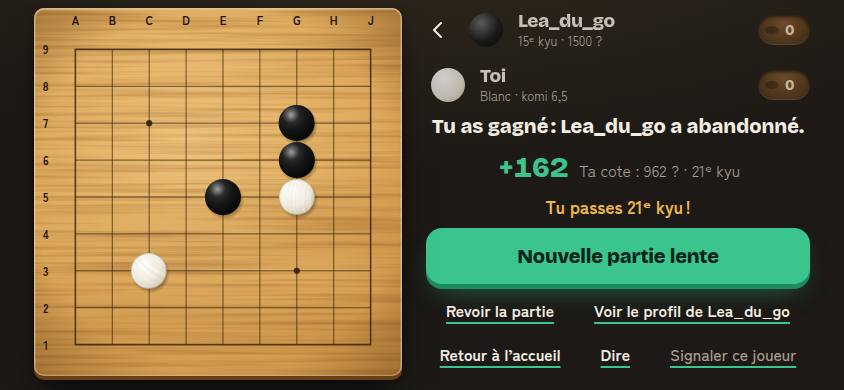
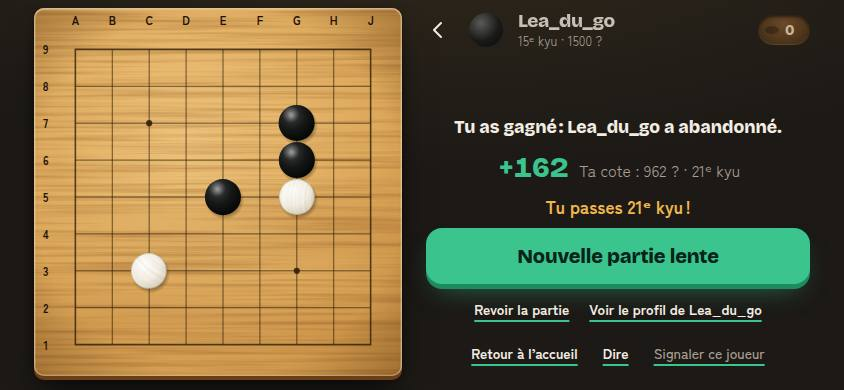
#670 Fin en ligne sur téléphone tourné : le panneau tient, même avec une police plus large
En CI, la fin d'une partie classée défilait de 19 px à 844 × 390 (police plus large sur le runner : titre sur deux
lignes, liens un par ligne). Sous 480 px de haut, à la fin : ton bandeau (couleur, komi, prisonniers) s'efface, le
titre passe à --fs-l, les liens à --fs-s avec moins d'écart (44 px de haut gardés). Mesuré : le panneau finit au bas
du goban avec environ 60 px libres, polices web chargées ou bloquées. Capture 844 × 390 refaite.

Claude-Session: https://claude.ai/code/session_01MBh4E5pGWe9HRzjpTV2rVx

diff --git a/src/ui/paysage-en-ligne.css b/src/ui/paysage-en-ligne.css
@@ -47,5 +47,11 @@
   /* Téléphone tourné : à la fin, le ruban des coups laisse sa place au résultat (« Revoir la partie » les montre tous). */
   @media (max-height: 480px) {
     .app.app-partie .defi-partie:is(.phase-fini, .phase-annulee) > .coups-ruban { display: none; }
+    /* Ton bandeau (couleur, komi, prisonniers) ne sert plus une fois la partie finie : le résultat prend sa place. Titre
+       et liens resserrés (les liens gardent 44 px de haut) : la fin tient aussi avec une police de repli plus large. */
+    .app.app-partie .defi-partie:is(.phase-fini, .phase-annulee) > .partie-plateau ~ .joueur { display: none; }
+    .app.app-partie .defi-partie .defi-fin-titre { font-size: var(--fs-l); }
+    .app.app-partie .defi-partie .defi-fin :is(.lien, .echanges-fin .lien) { font-size: var(--fs-s); padding-inline: var(--space-1); }
+    .app.app-partie .defi-partie .defi-fin, .app.app-partie .defi-partie .defi-fin > .echanges-fin { column-gap: var(--space-3); }
   }
 }
